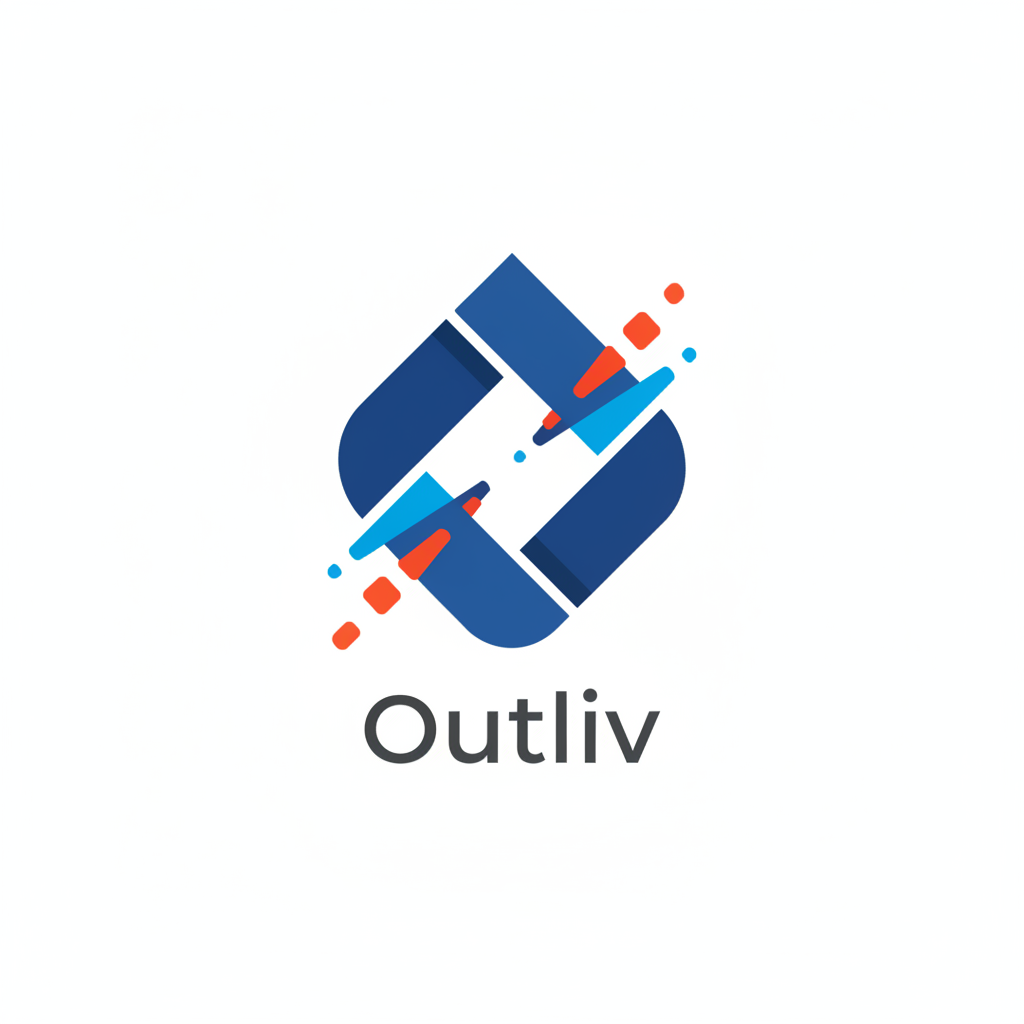
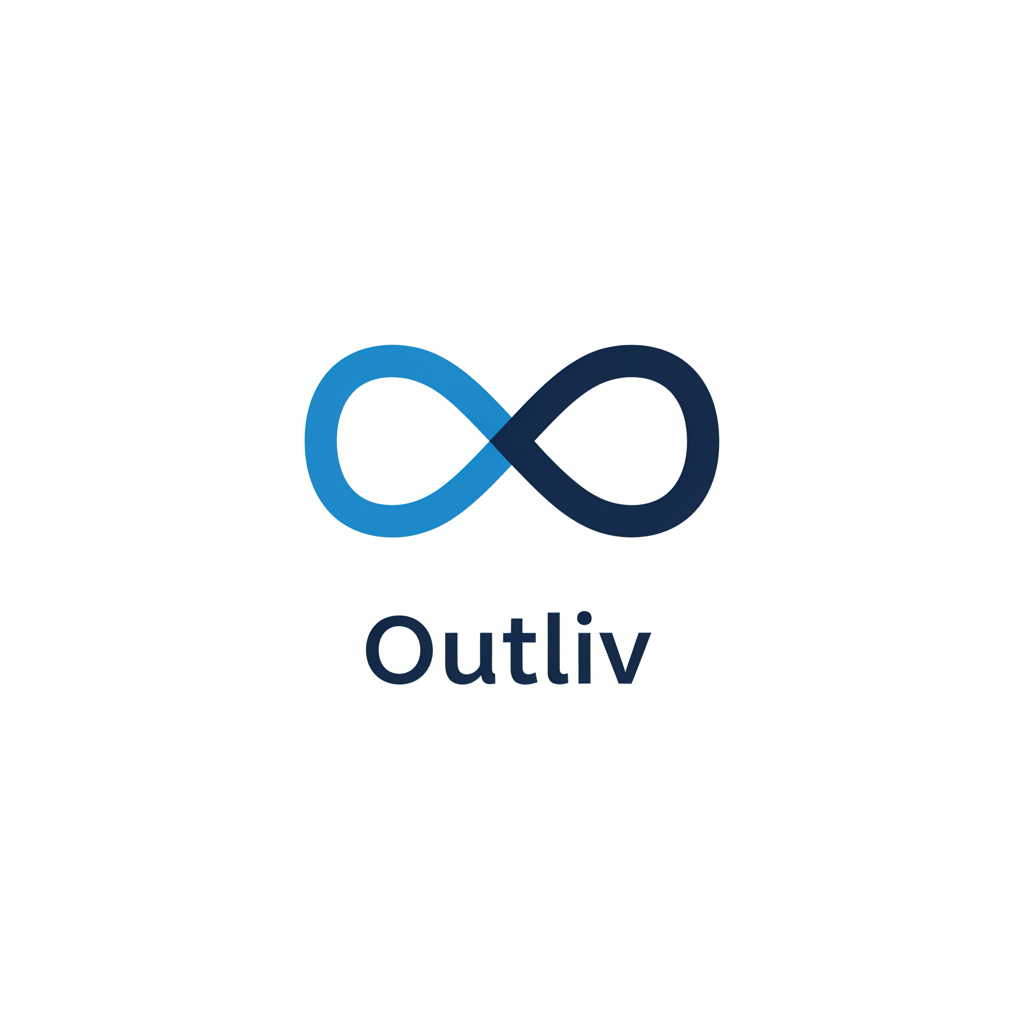
improvement10

Changed region(s): [[0.2812, 0.25, 0.7188, 0.75], [0.375, 0.6562, 0.4062, 0.6875]]

diff --git a/components/layout/top-nav.tsx b/components/layout/top-nav.tsx
@@ -1,6 +1,7 @@
 "use client";
 
 import Link from "next/link";
+import Image from "next/image";
 import { usePathname } from "next/navigation";
 import { Button } from "@/components/ui/button";
 import { Avatar, AvatarFallback, AvatarImage } from "@/components/ui/avatar";
@@ -37,10 +38,10 @@ export function TopNav() {
 
   return (
     <div className="border-b border-border bg-card sticky top-0 z-50">
-      <div className="flex h-14 items-center px-4 gap-4">
+      <div className="flex h-14 items-center pl-2 pr-4 gap-4">
         {/* Logo and Brand */}
         <Link href="/" className="flex items-center gap-2">
-          <span className="text-base font-semibold text-foreground">Outliv</span>
+          <img src="/logo.png" alt="Outliv" className="w-12 h-12" />
         </Link>
 
         {/* Workspace Selector */}

diff --git a/components/layout/side-nav.tsx b/components/layout/side-nav.tsx
@@ -72,8 +72,8 @@ export function SideNav({ items, title }: SideNavProps) {
                   variant="ghost"
                   size="sm"
                   className={cn(
-                    "w-full justify-start px-3 h-8",
-                    isCollapsed ? "px-2" : "",
+                    "w-full h-8",
+                    isCollapsed ? "justify-center px-0" : "justify-start px-3",
                     isActive(item.href)
                       ? "bg-accent text-primary hover:bg-accent"
                       : "text-muted-foreground hover:text-foreground hover:bg-muted"
